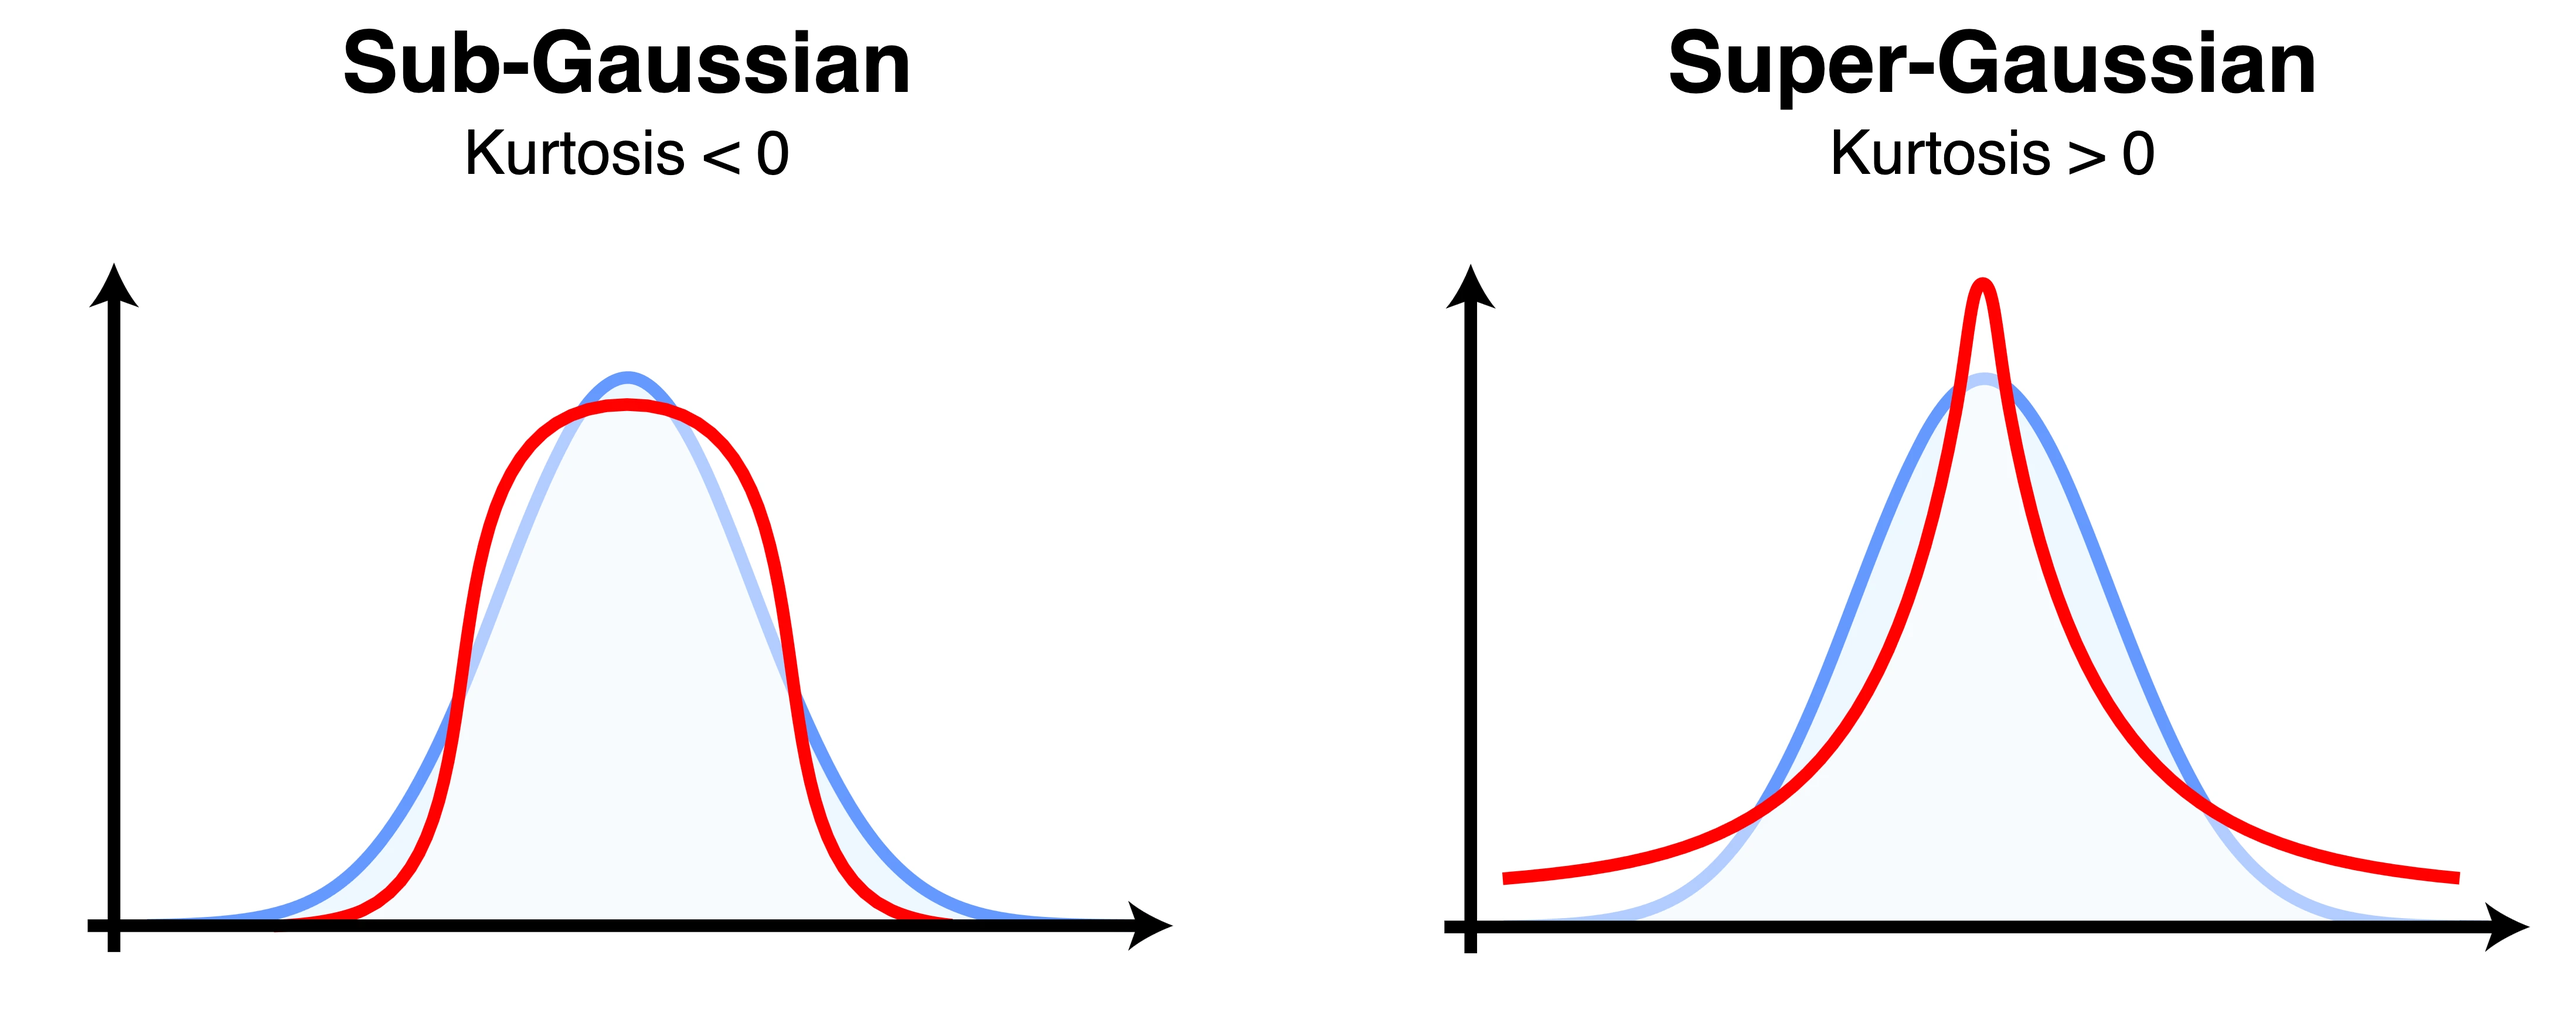
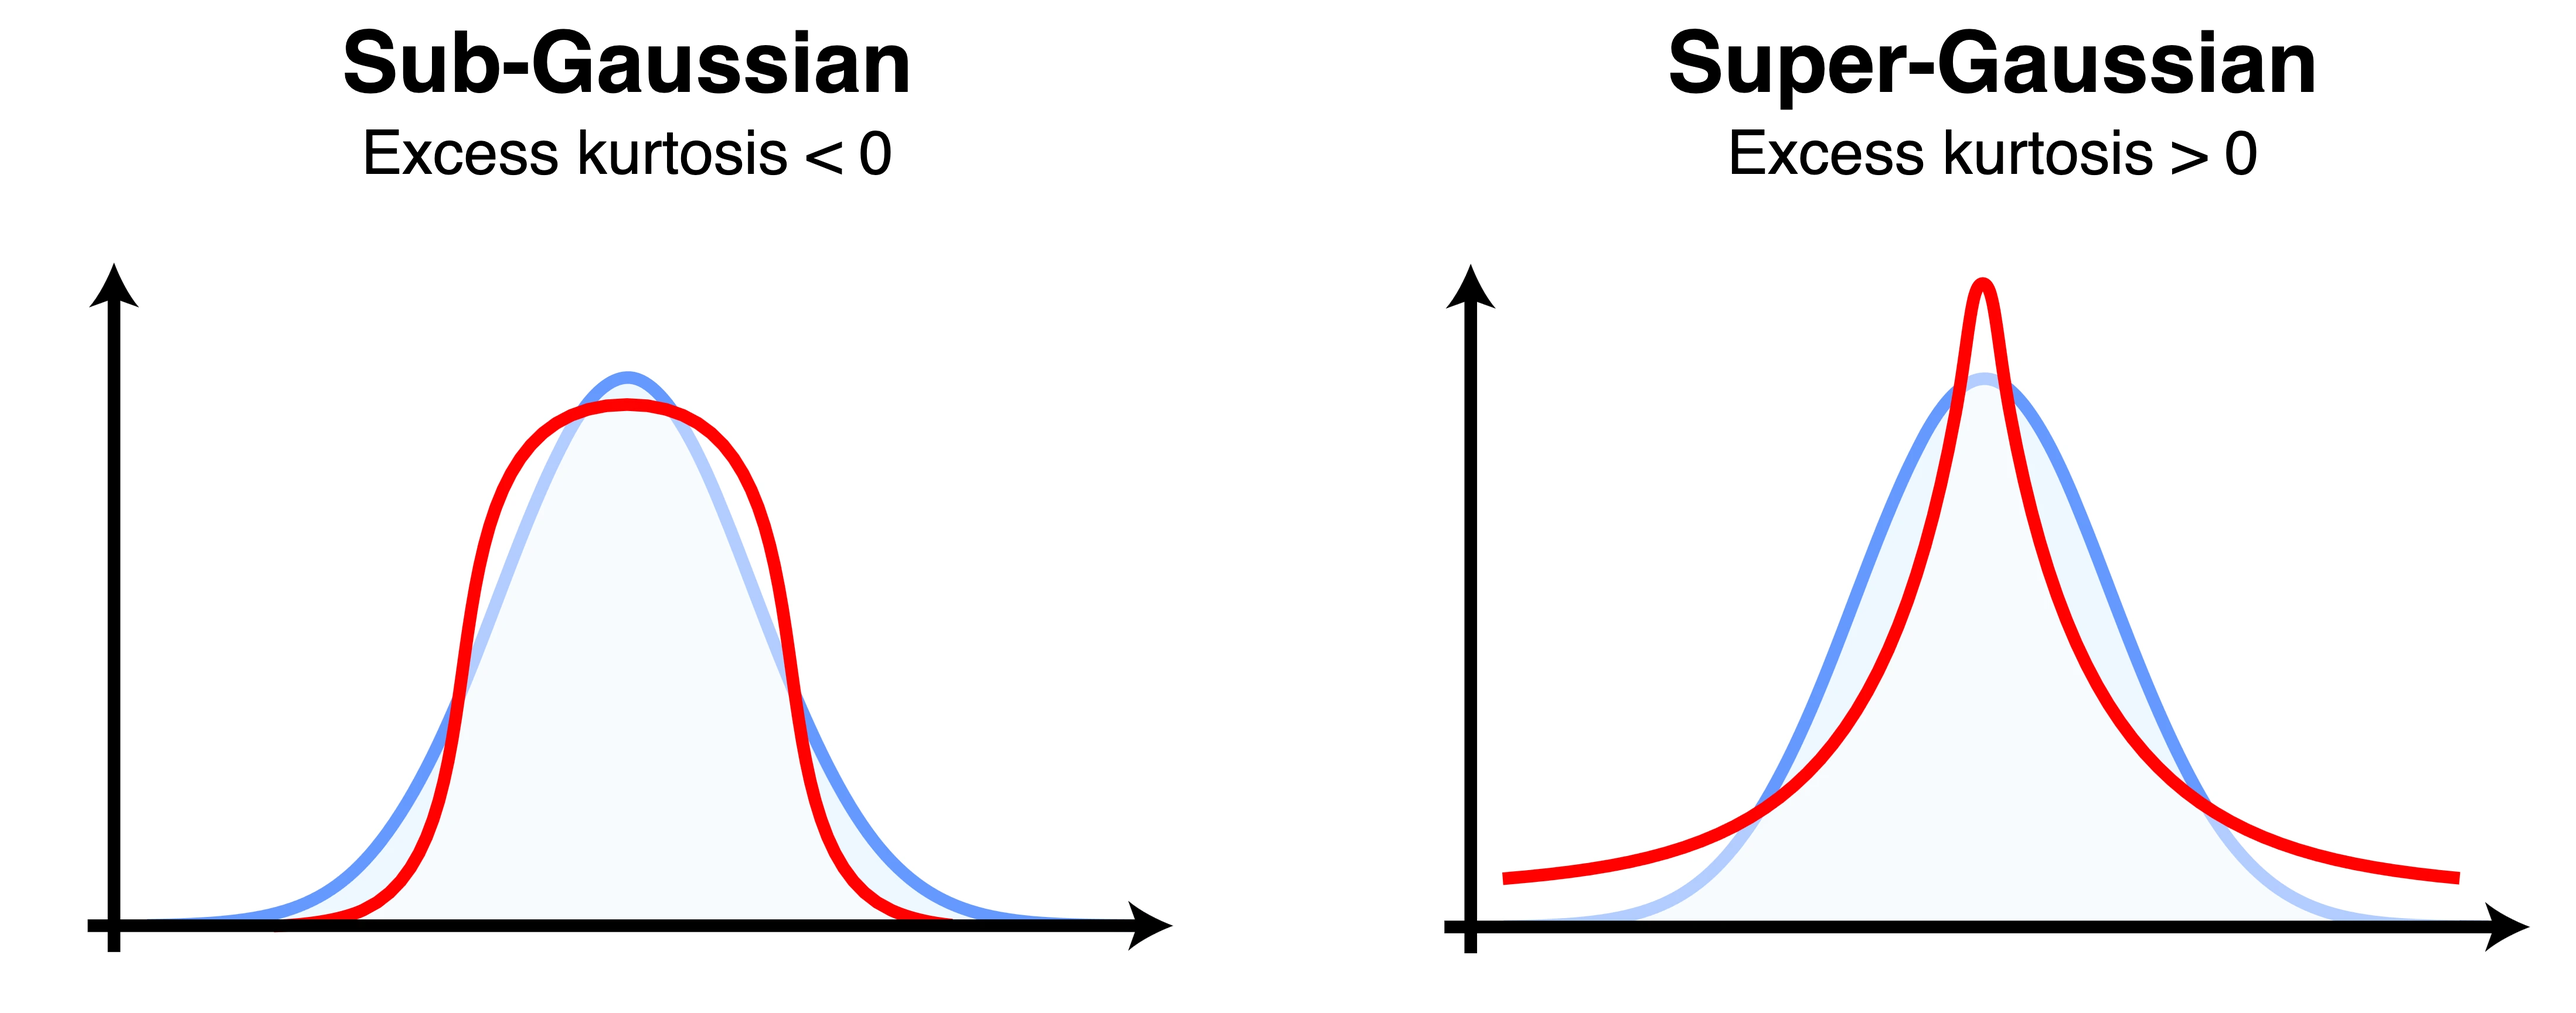
chore: expand non-gaussianity measures

Changed region(s): [[0.6546, 0.1249, 0.8728, 0.1873], [0.1247, 0.1249, 0.3429, 0.1873]]

diff --git a/_posts/2025-09-22-ica.md b/_posts/2025-09-22-ica.md
@@ -6,6 +6,7 @@ description: Cocktail parties make me anxious
 tags:
   - linear_algebra
   - statistics
+  - machine_learning
 giscus_comments: true
 related_posts: false
 ---
@@ -36,7 +37,7 @@ This is the case in which **independent component analysis (ICA)** shines.
     ICA and PCA applied to a synthetic dataset. The underlying, independent signals (A) are combined into the observed signal (B) as \(x = c_1 + c_2\), \(y = 2 c_2\). While ICA finds the best basis (B) and recovers the true components (C), PCA cannot (D). Adapted from the <a href="https://scikit-learn.org/stable/auto_examples/decomposition/plot_ica_vs_pca.html#sphx-glr-auto-examples-decomposition-plot-ica-vs-pca-py">scikit-learn documentation</a>.
 </div>
 
-# The cocktail party problem
+{% details The cocktail party problem %}
 
 The ICA is the paradigmatic solution to the cocktail party problem, a famous problem in signal processing. And also, I suspect, during the Cold War.
 
@@ -54,27 +55,53 @@ The spy, thoroughly motivated to separate each of the signals into its individua
 
 {% include figure.liquid loading="eager" path="assets/python/2025-09-22-ica/img/cocktail_ica_signals.webp" class="img-fluid" %}
 
-More formally, each independent component $$j$$ (e.g., the piano playing) is a vector indexed by time ($$s_j(t)$$). Then, each microphone captures a linear combination of all the signals:
+{% enddetails %}
+
+# How does ICA work?
+
+PCA seeks an uncorrelated basis, since the axes of the ellipsoid need to be orthogonal. ICA goes one step further: it seeks a **statistically independent** basis.
+
+More formally, ICA assumes the observed data is mixture of the individual components (e.g., the piano playing in the cocktail party). Each independent component $$j$$ is a vector indexed by time ($$s_j(t)$$). They must meet two properties: _non-gaussianity_ and _statistically independence_. There is also the assumption that they are combined _linearly_ to generate the observed data:
 
 $$
 x_i(t) = \sum_j a_{ij} s_j(t)
 $$
 
-where $$a_{ij}$$ is a constant, representing the relative contribution of each component. For instance, it will be small for components sourced far from the microphone. We can arrange the vectors coming from the different microphones into a matrix, and think of it as a matrix factorization problem:
+where $$a_{ij}$$ is a constant, representing the relative contribution of each component. And this is key: as per the central limit theorem, the sum of independent random variables converges in distribution to a Gaussian.
+
+We can arrange the observation vectors into a matrix, and think of it as a matrix factorization problem:
 
 $$
 X = AS
 $$
 
-where $$A$$ is called the mixing matrix and $$S$$ the independent component matrix. The goal is to estimate both $$A$$ and $$S$$ from $$X$$.
+where $$A$$ is called the mixing matrix and $$S$$ the independent component matrix. The goal is to estimate both $$A$$ and $$S$$ from $$X$$. To that end, ICA seeks a de-mixing matrix $$W$$ such that:
 
-# Background
+$$
+S = W X
+$$
 
-By design, PCA seeks an uncorrelated basis, since the axes of the ellipsoid need to be orthogonal. ICA goes one step further: it seeks a **statistically independent** basis.
+Specifically, ICA will seek the $$W$$ that minimizes the gaussianity of each column of $$S$$.
 
-In ICA, we identify different non-gaussian tails of the distribution.
+{% details Quantifying non-Gaussianity %}
 
-# Implementation: FastICA
+There are two popular ways of quantifying the non-Gaussianity of a distribution.
+
+The first way consists in comparing the properties of the distribution called the [**moments**](https://gregorygundersen.com/blog/2020/04/11/moments/). The first two moments, the mean and the variance, are not useful, since the data is usually standardized to have 0 mean and 1 variance. But the third and the forth moments (skewness and kurtosis, respectively) are frequently used:
+
+- The **skewness** measures the asymmetry of the distribution. Gaussian distributions are famously symmetrical, and have a skewness of 0.
+
+    {% include figure.liquid loading="eager" path="assets/img/posts/2025-09-22-ica/skewness.webp" class="img-fluid" %}
+
+- The **kurtosis** measures the tailedness of the distribution. By comparing the kurtosis of our distribution relative to that of a normal distribution (_excess kurtosis_), we can estimate how non-Gaussian it is. The kurtosis is popular because it can be easily estimated from the data.
+
+    {% include figure.liquid loading="eager" path="assets/img/posts/2025-09-22-ica/kurtosis.webp" class="img-fluid" %}
+
+The second family involves using the **entropy** of the distribution. A fundamental theorem in information theory states that a gaussian variable has the largest entropy among all random variables of equal variance.
+
+{% enddetails %}
+
+## Implementation: FastICA
 
 [FastICA](https://scikit-learn.org/stable/modules/generated/sklearn.decomposition.FastICA.html) is one of the most popular algorithms to conduct ICA. Steps:
 
